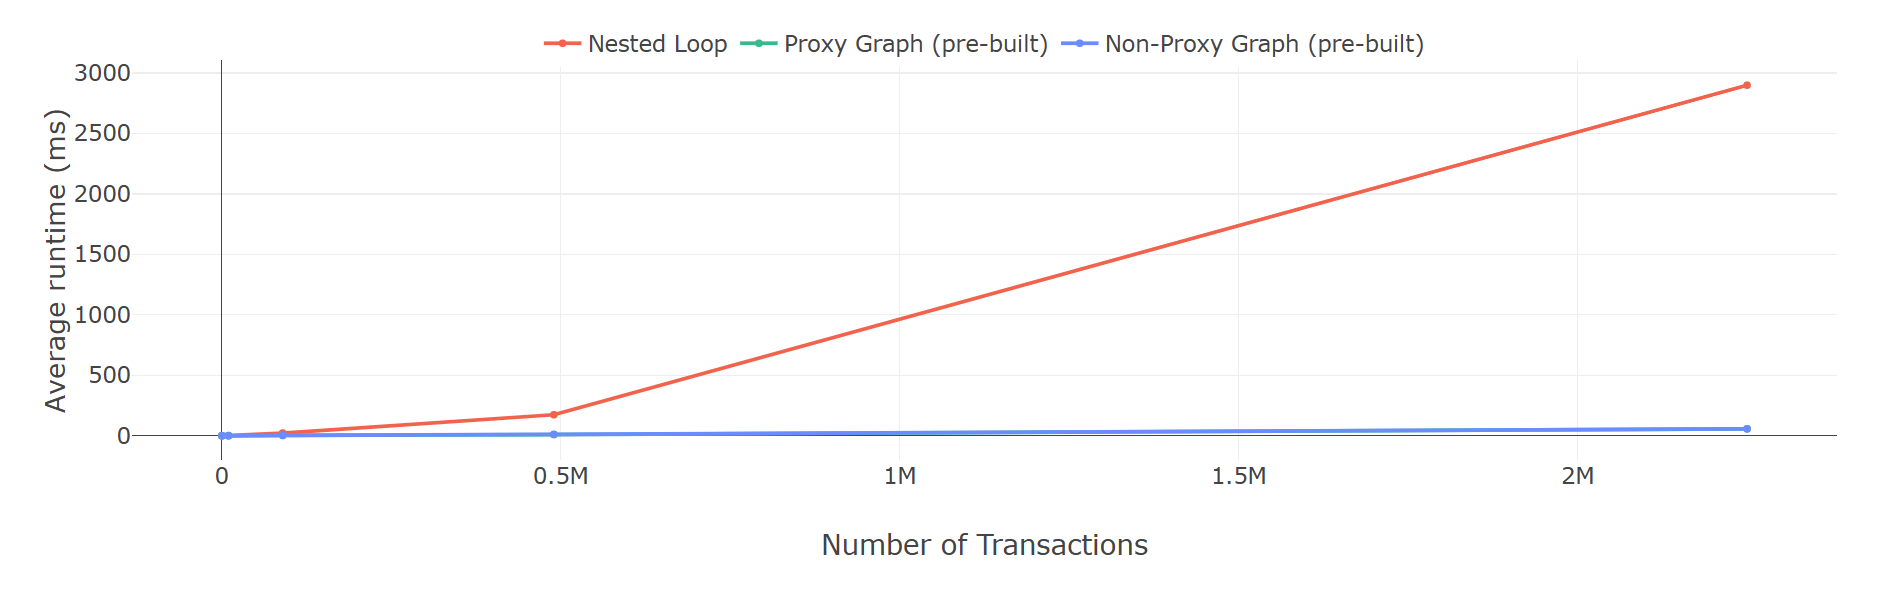
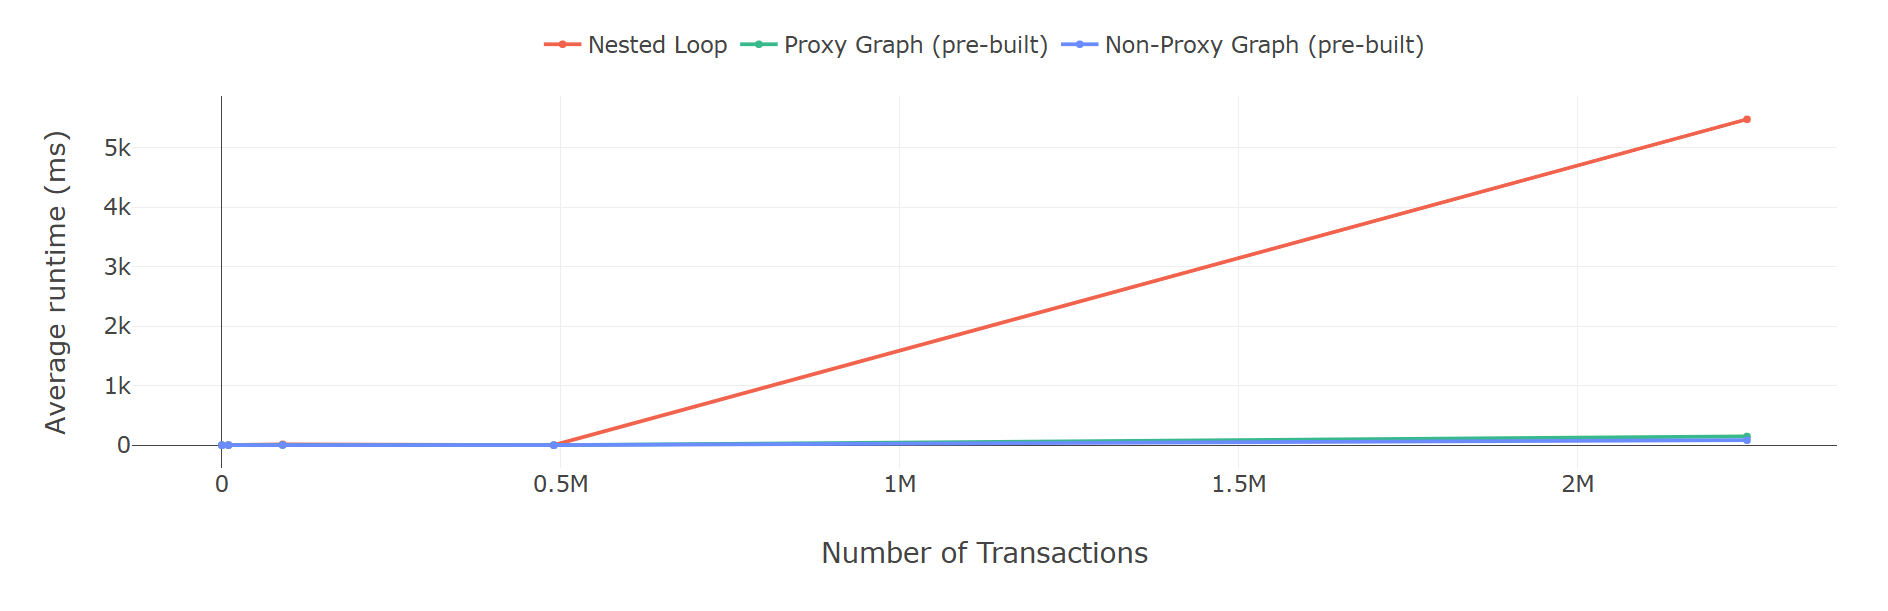
Small doc fixes

diff --git a/benchmark.html b/benchmark.html
@@ -6,7 +6,7 @@
   <body>
     <div id="plot" style="width:100%;"></div>
     <script>
-      Plotly.newPlot('plot', [{"x":[400,10000,90000,490000,2250000],"y":[0.20382500000001377,0.9641416666666723,15.627250000000009,0.6243833333333271,5477.156908333334],"name":"Nested Loop","line":{"color":"#f1634c","width":3},"mode":"lines+markers","type":"scatter"},{"x":[400,10000,90000,490000,2250000],"y":[0.2774666666666595,0.37281666666666524,2.812500000000019,0.5320416666667143,146.5714916666669],"name":"Proxy Graph (pre-built)","line":{"color":"#37b98b","width":3},"mode":"lines+markers","type":"scatter"},{"x":[400,10000,90000,490000,2250000],"y":[0.19033333333332791,0.7021916666666735,2.556208333333359,0.6854249999999903,83.4335749999979],"name":"Non-Proxy Graph (pre-built)","line":{"color":"#6b8cff","width":3},"mode":"lines+markers","type":"scatter"}], {"xaxis":{"title":"Number of Transactions"},"yaxis":{"title":"Average runtime (ms)","tickformat":"~s"},"font":{"size":18},"legend":{"orientation":"h","x":0.5,"xanchor":"center","y":1.1},"margin":{"l":100,"r":40,"t":50,"b":80}});
+      Plotly.newPlot('plot', [{"x":[400,10000,90000,490000,2250000],"y":[0.20382500000001377,0.9641416666666723,15.627250000000009,0.6243833333333271,5477.156908333334],"name":"Nested Loop","line":{"color":"#f1634c","width":3},"mode":"lines+markers","type":"scatter"},{"x":[400,10000,90000,490000,2250000],"y":[0.2774666666666595,0.37281666666666524,2.812500000000019,0.5320416666667143,146.5714916666669],"name":"Proxy Graph (pre-built)","line":{"color":"#37b98b","width":3},"mode":"lines+markers","type":"scatter"},{"x":[400,10000,90000,490000,2250000],"y":[0.19033333333332791,0.7021916666666735,2.556208333333359,0.6854249999999903,83.4335749999979],"name":"Non-Proxy Graph (pre-built)","line":{"color":"#6b8cff","width":3},"mode":"lines+markers","type":"scatter"}], {"xaxis":{"title":"Number of Transactions"},"yaxis":{"title":"Average runtime (ms)","tickformat":".0s"},"font":{"size":18},"legend":{"orientation":"h","x":0.5,"xanchor":"center","y":1.2},"margin":{"l":100,"r":40,"t":70,"b":80}});
     </script>
   </body>
 </html>

diff --git a/tests/benchmark.test.ts b/tests/benchmark.test.ts
@@ -165,10 +165,10 @@ function generatePlot(results: BenchmarkResult[]) {
 
     const layout = {
         xaxis: { title: "Number of Transactions", },
-        yaxis: { title: "Average runtime (ms)", tickformat: "~s" },
+        yaxis: { title: "Average runtime (ms)", tickformat: ".0s" },
         font: { size: 18 },
-        legend: { orientation: "h", x: 0.5, xanchor: "center", y: 1.1 },
-        margin: { l: 100, r: 40, t: 50, b: 80 },
+        legend: { orientation: "h", x: 0.5, xanchor: "center", y: 1.2 },
+        margin: { l: 100, r: 40, t: 70, b: 80 },
     };
 
     const html = `<!DOCTYPE html>

diff --git a/README.md b/README.md
@@ -106,7 +106,7 @@ const txIds = graph
 
 | Guide | Description |
 |---|---|
-| [Graph](docs/proxy-graph.md) | Full reference for `createGraph` — the standard API with clean `graph.entity("id")` / `node.relation()` syntax powered by `Proxy`. |
+| [Graph](docs/graph.md) | Full reference for `createGraph` — the standard API with clean `graph.entity("id")` / `node.relation()` syntax powered by `Proxy`. |
 | [Non-Proxy Graph](docs/non-proxy-graph.md) | Full reference for `createNonProxyGraph` — identical behaviour using a `.to()` calling convention, compatible with environments that do not support `Proxy`. |
 | [Graph Modification](docs/modification.md) | Insert, update (upsert), delete, and cascade-delete entities at runtime with automatic index maintenance. |
 | [Debugging](docs/debugging.md) | Use `graph.info()` to inspect entity counts, missing FK targets, and orphan entities. |
